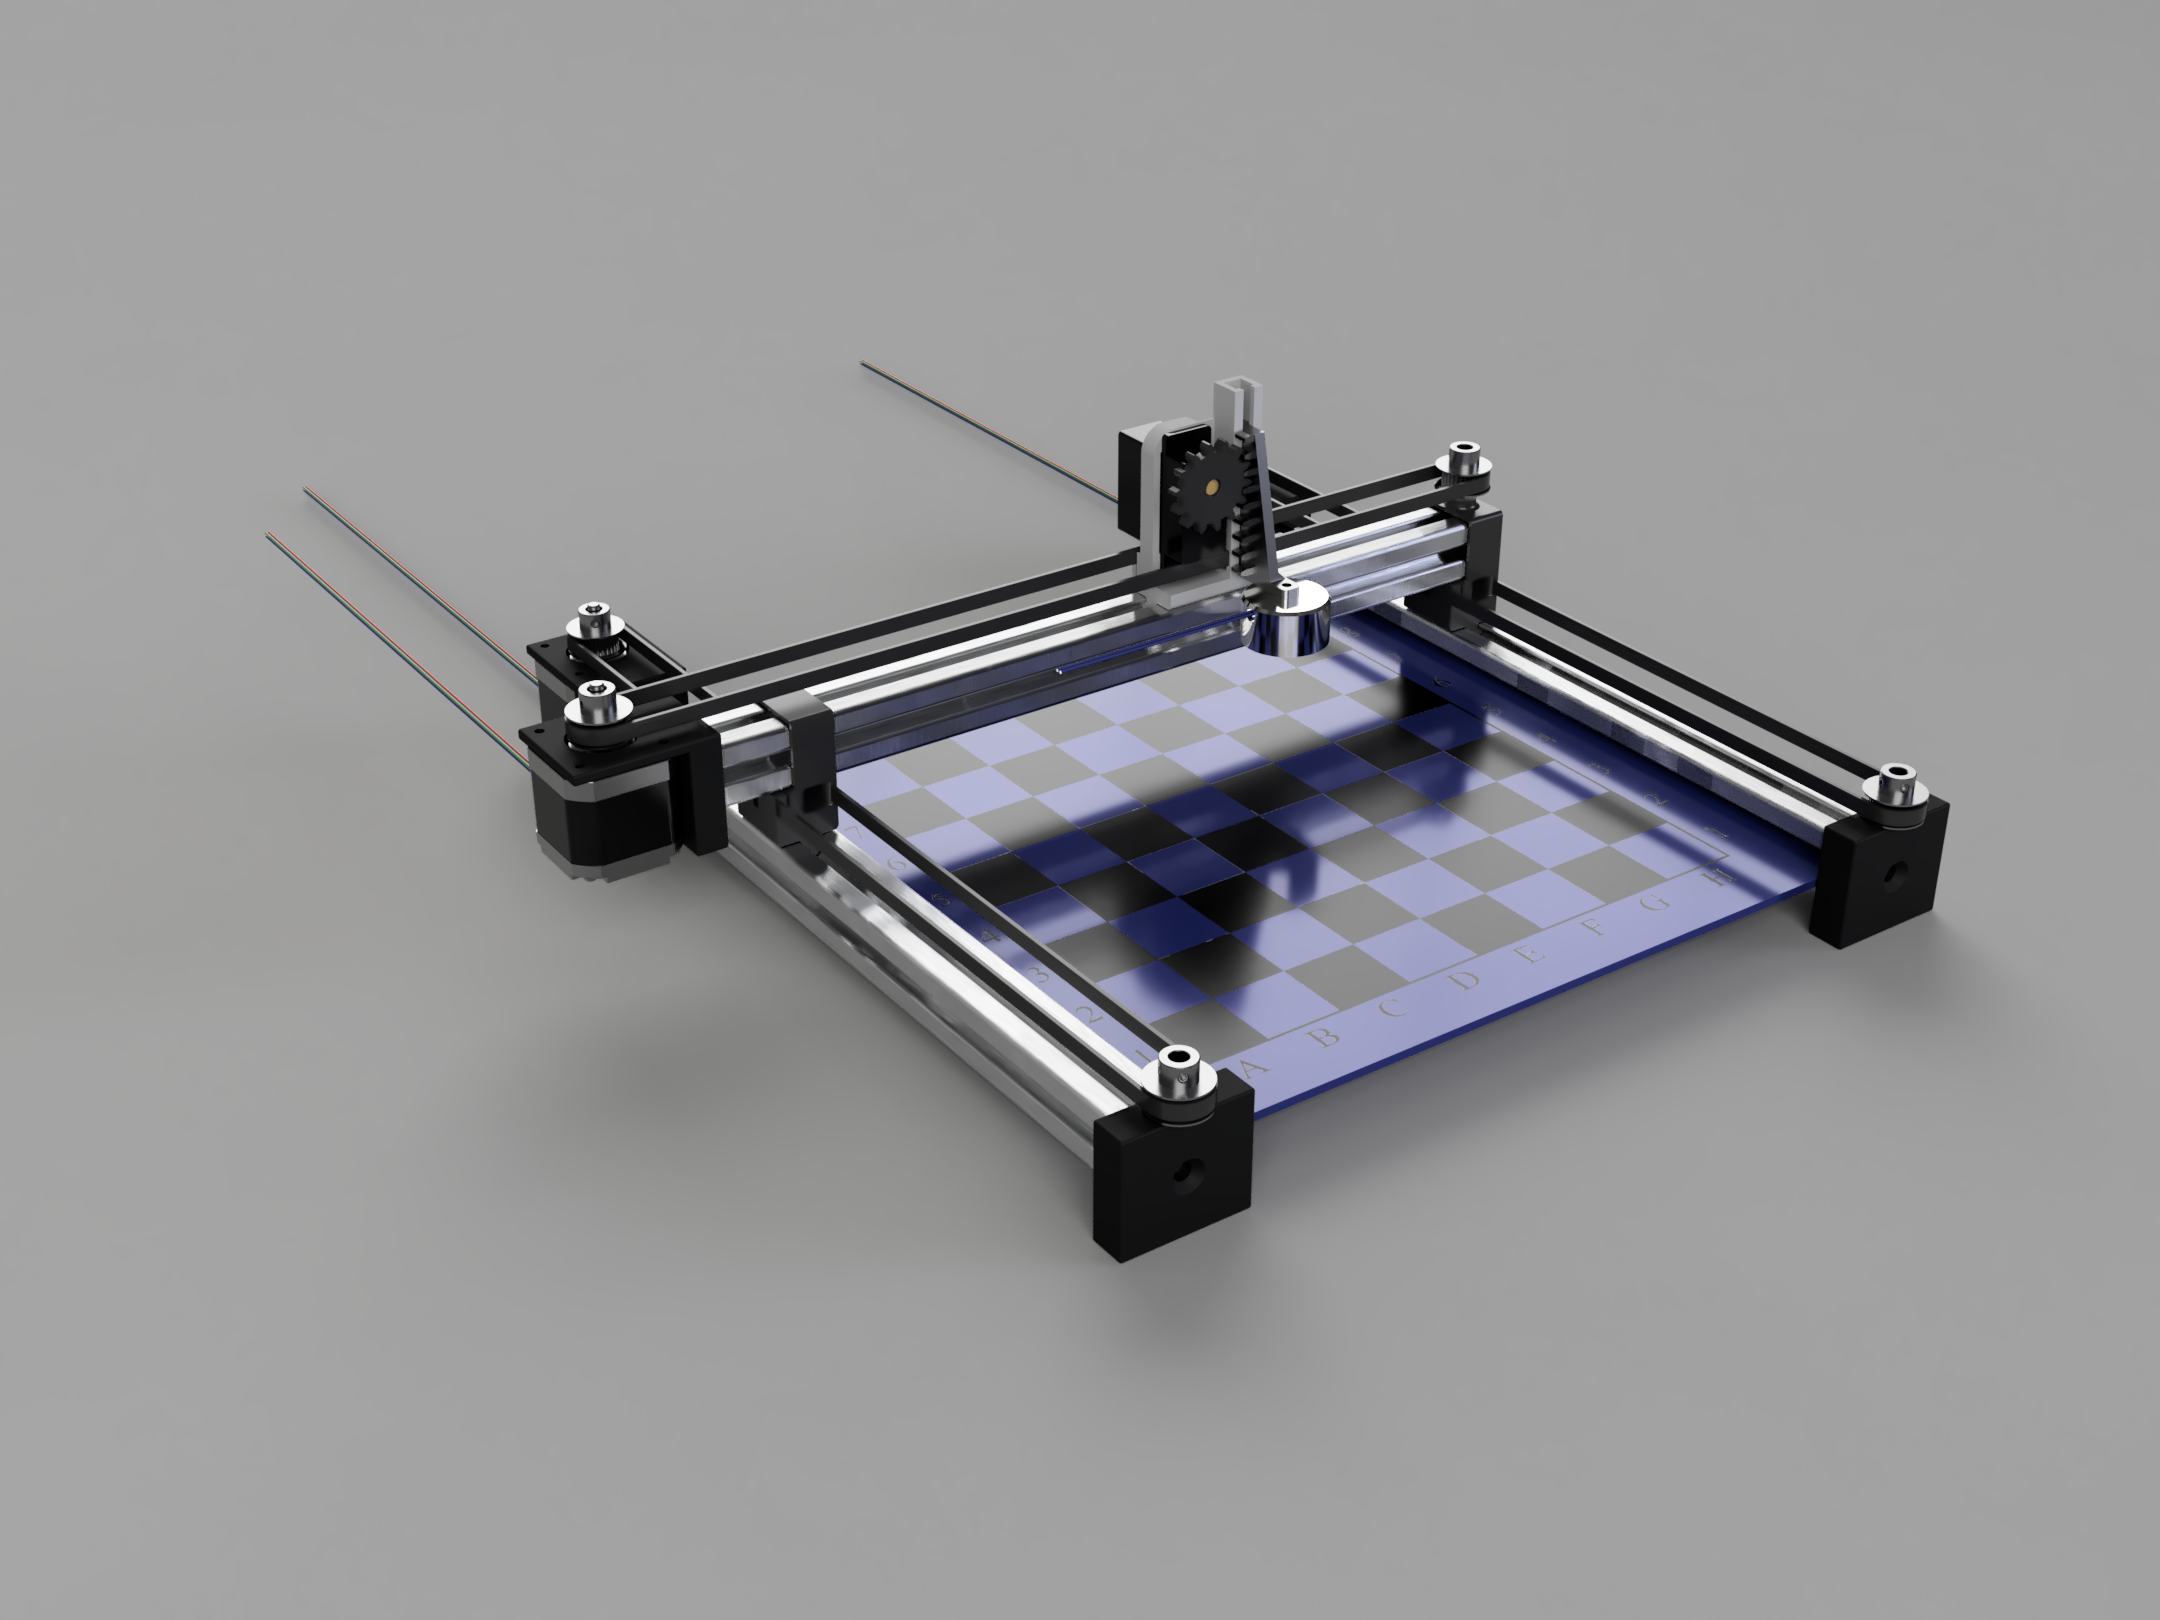
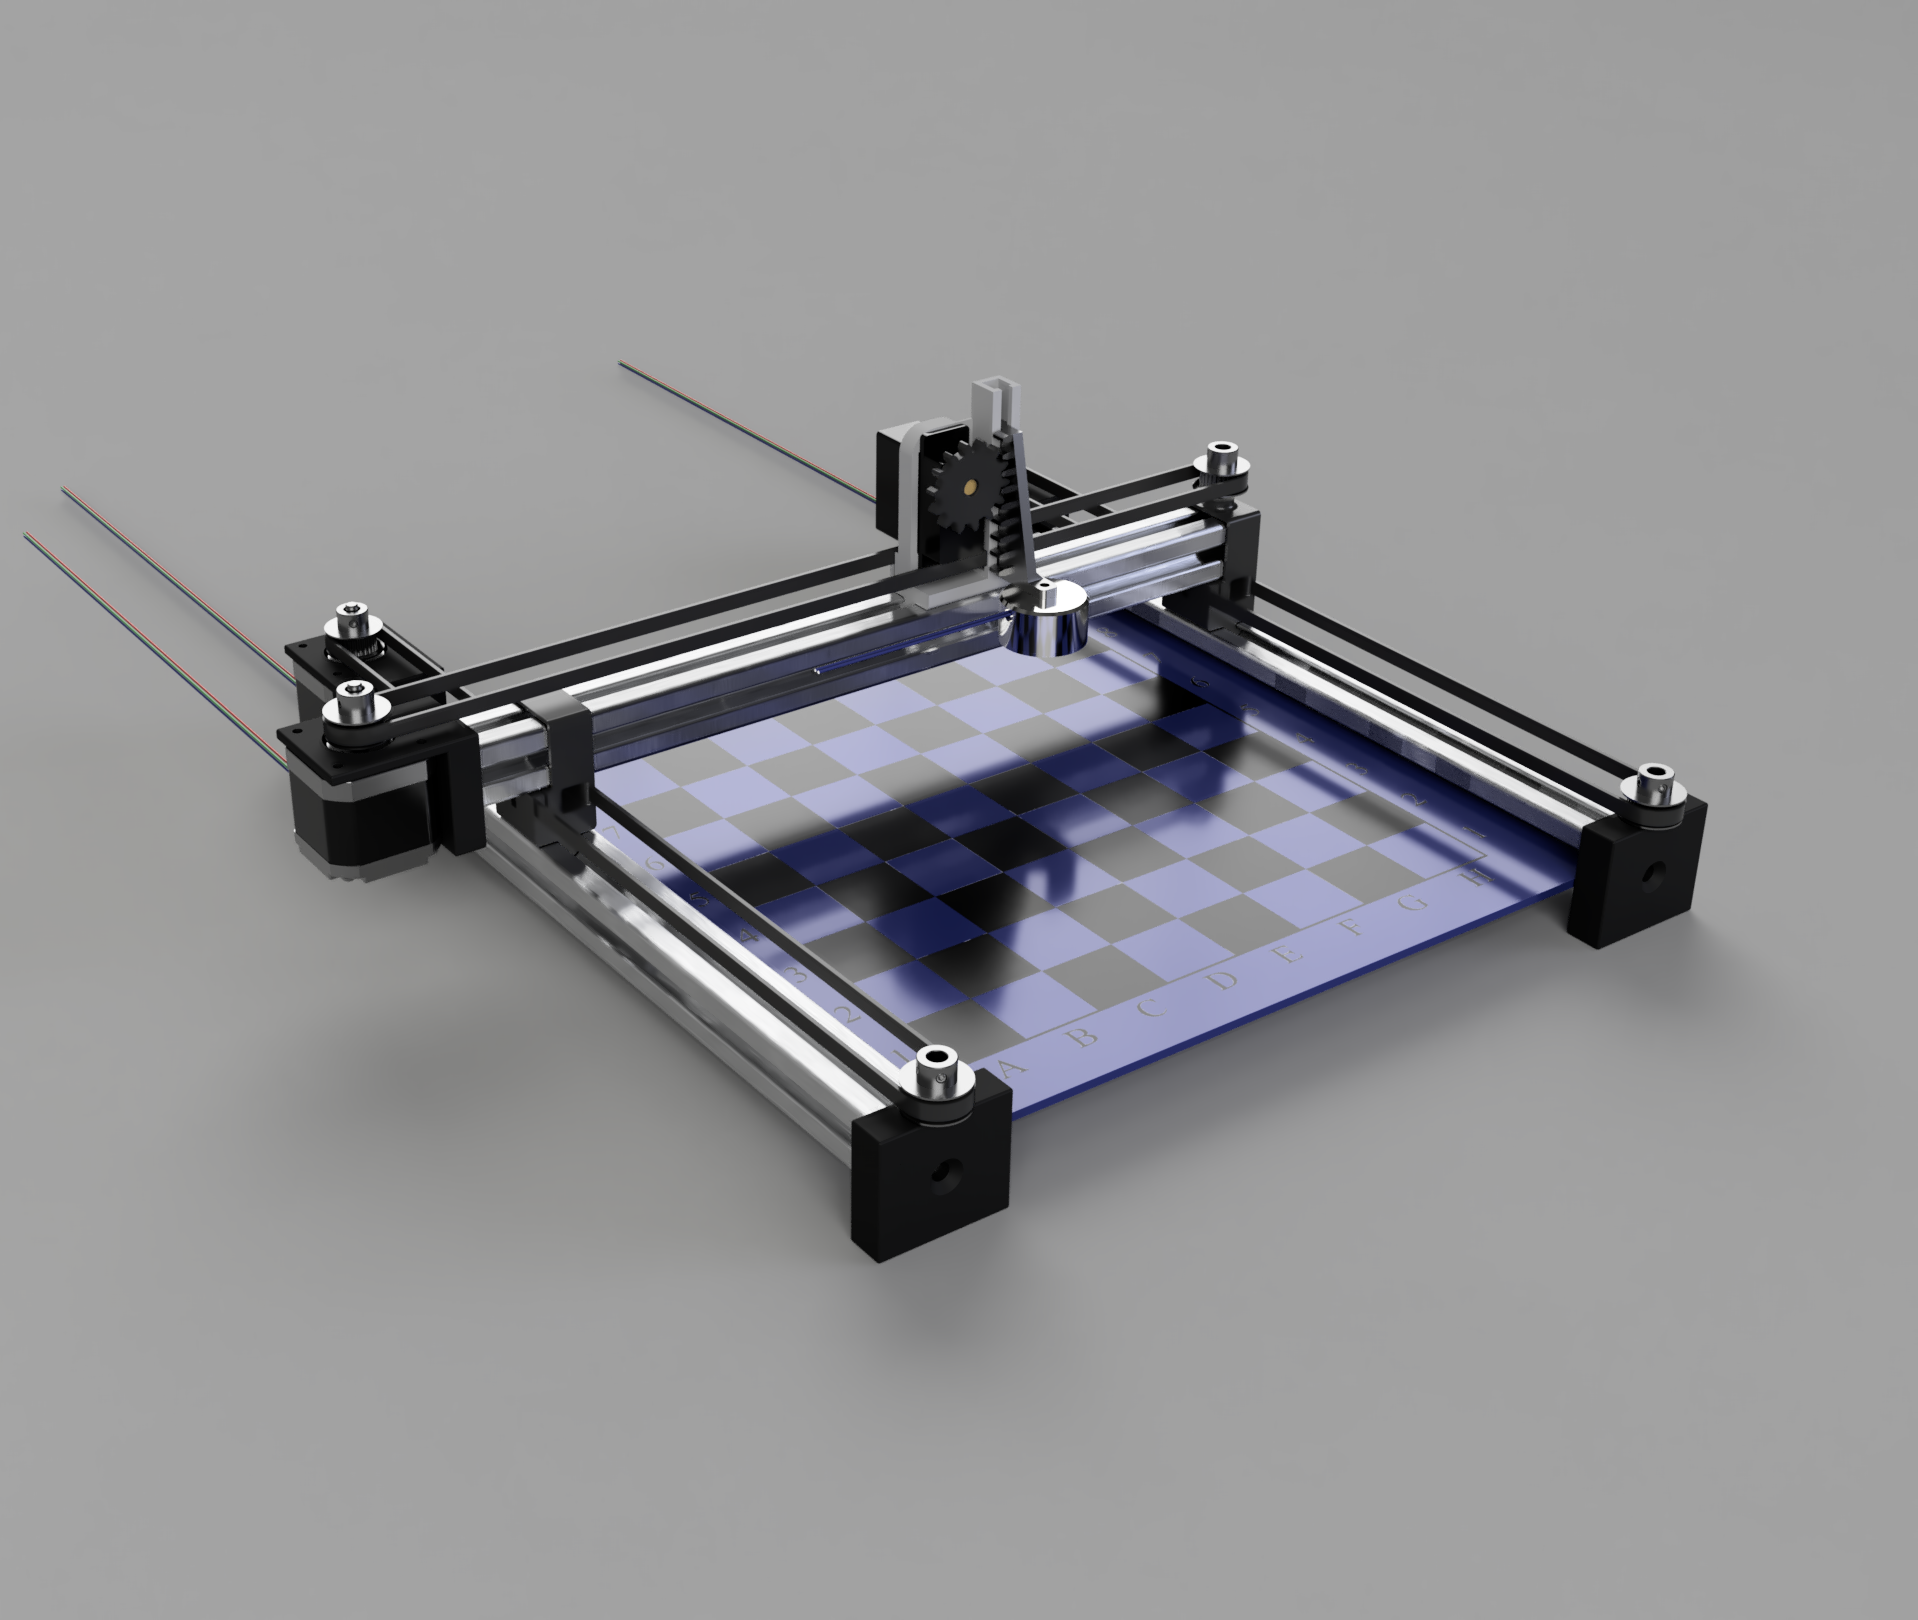
adding treatturbine

diff --git a/projects.js b/projects.js
@@ -21,8 +21,52 @@
 // ============================================================
 
 const PROJECTS = [
+  // URL-friendly ID (no spaces, lowercase, used in the URL)
+
   {
-    // URL-friendly ID (no spaces, lowercase, used in the URL)
+    id: "treatturbine",
+    title: "TreatTurbine",
+    subtitle: "Open-source autonomous treat delivery drone for wildlife",
+    thumbnail: "images/treatturbine-thumb.jpg",
+    heroTitle: "TreatTurbine",
+    sections: [
+      {
+        heading: "The Problem",
+        text: "Alveus Sanctuary wanted a way to let their livestream audience interact directly with the animals — specifically, a system that a viewer could trigger with a donation to deliver treats by air to the sanctuary's wolf dogs, Awa and Akela. Our team of five took this on as a 6-month capstone project, with the system needing to meet five requirements in order of priority: it had to be safe, reliable, easy to operate, capable of delivering multiple treats without intervention, and spectacular to watch on stream."
+      },
+      {
+        heading: "The Solution",
+        images: [
+          "images/treatturbine-1.jpg",
+          "images/treatturbine-2.jpg"
+        ]
+      },
+      {
+        heading: "In Action",
+        video: "PASTE_YOUTUBE_LINK_HERE"
+      },
+      {
+        heading: "Design Challenges",
+        text: "The treat-dispensing mechanism, which we named the TreatTurbine, is a partitioned drum with multiple compartments, paired with an interchangeable TPU ring that has a set of teeth molded into its outer edge. A servo with a custom 3D printed arm strikes one tooth to advance the drum a single compartment, then winds back, slipping over the next tooth to reset for the following strike. Even though the servo had closed-loop position feedback, software control alone wasn't enough to make it advance exactly one compartment every time — the drum would occasionally over- or under-rotate. We solved this by pausing the print partway through and embedding small magnets directly into the TPU ring, letting the drum index itself mechanically against a fixed detent rather than relying purely on commanded servo position. That one change took indexing from inconsistent to perfectly repeatable.\n\nIn parallel, we built an open source drone frame and outfitted it as a fully autonomous platform: a Pixhawk flight controller running ArduPilot, a GPS module, a video transmission system, and mounting rails to carry the TreatTurbine payload. Because the aircraft needed three independent radio links running simultaneously — manual flight control, telemetry, and live video — interference was a real risk. We split them across three separate bands: the manual radio controller ran at 2.4GHz, telemetry at 900MHz, and the Walksnail Avatar video transmitter at 5.8GHz, keeping all three clear of one another.\n\nThe last piece, still in development with Alveus as they build out the supporting infrastructure, is the audience-facing trigger: a livestream viewer will be able to donate roughly $50 on Twitch to autonomously launch a treat-drop mission in real time."
+      },
+      {
+        heading: "Testing",
+        text: "We tested the system in stages. First, we flew a fully autonomous mission in the snow in Boston to validate the GPS-guided flight plan. From there, the team traveled to Alveus Sanctuary in Texas over spring break for several shakedown flights in an open field, followed by a manual test flown with the sanctuary's animal care staff present to confirm safety around the animals. The project culminated in three back-to-back autonomous treat-drop missions flown live on stream, watched by roughly 1,500 viewers.",
+        images: [
+          "images/treatturbine-3.jpg",
+          "images/treatturbine-4.jpg"
+        ]
+      },
+      {
+        heading: "Outcome",
+        text: "The TreatTurbine successfully and repeatably delivered treats to Awa and Akela in front of a live audience, meeting every requirement Alveus set out — safe, reliable, simple to operate, and genuinely fun to watch. We've open sourced the full project, including the mechanism design and drone build, on GitHub (github.com/skbecken/treatturbine) so other conservationists and hobbyists can build their own. The drone currently remains with Alveus while they finish building the Twitch donation integration that will let viewers trigger drops themselves.",
+        images: [
+          "images/treatturbine-5.jpg"
+        ]
+      }
+    ]
+  },
+  {
     id: "coin-collector",
 
     // What shows on the project card on the home page
